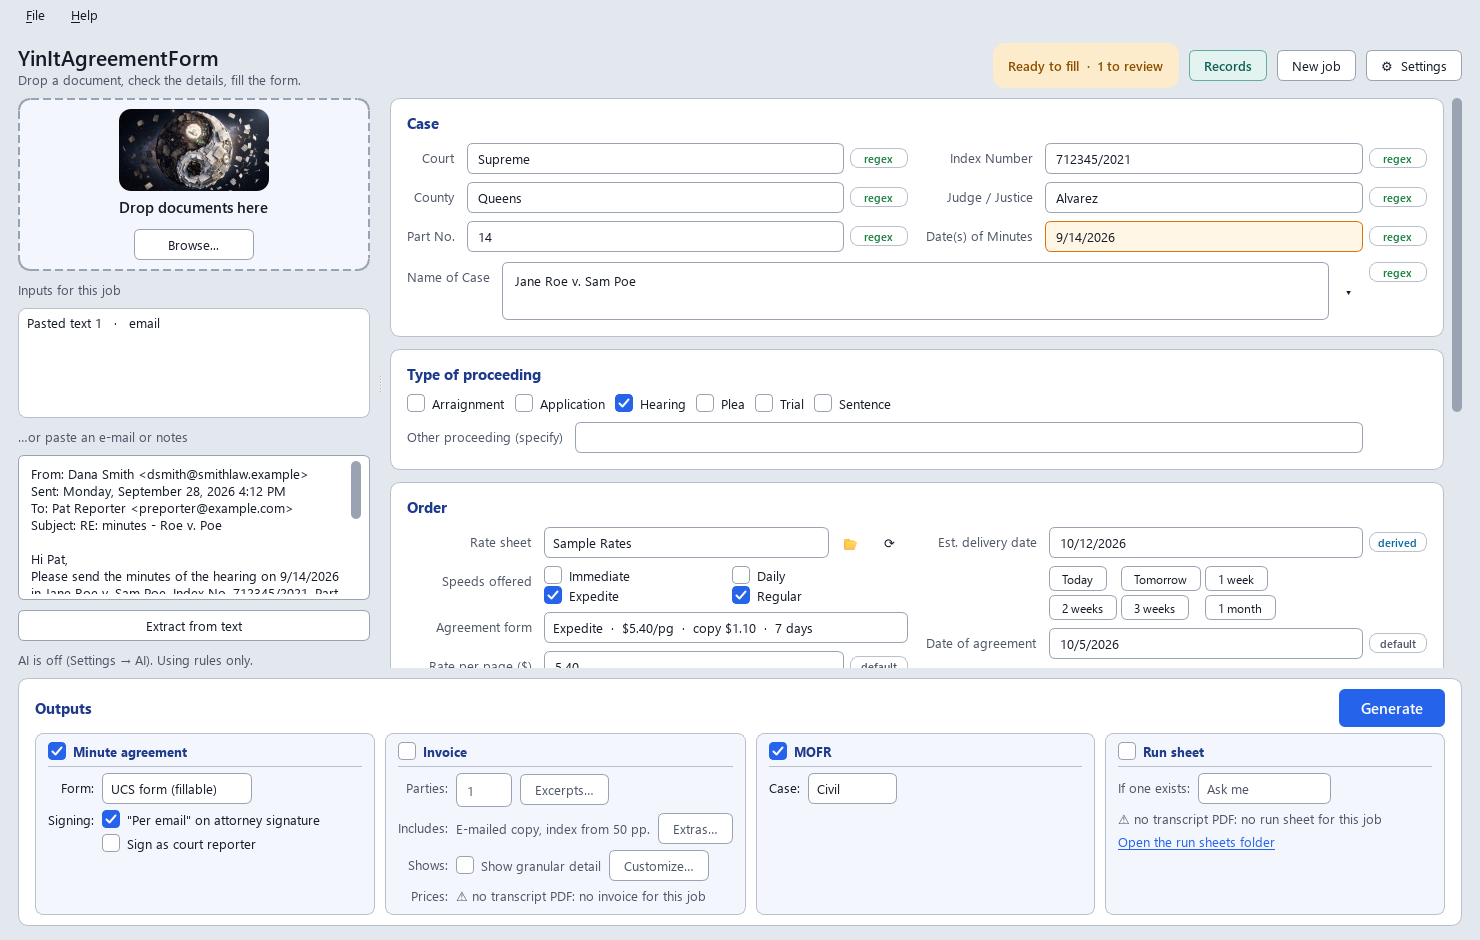
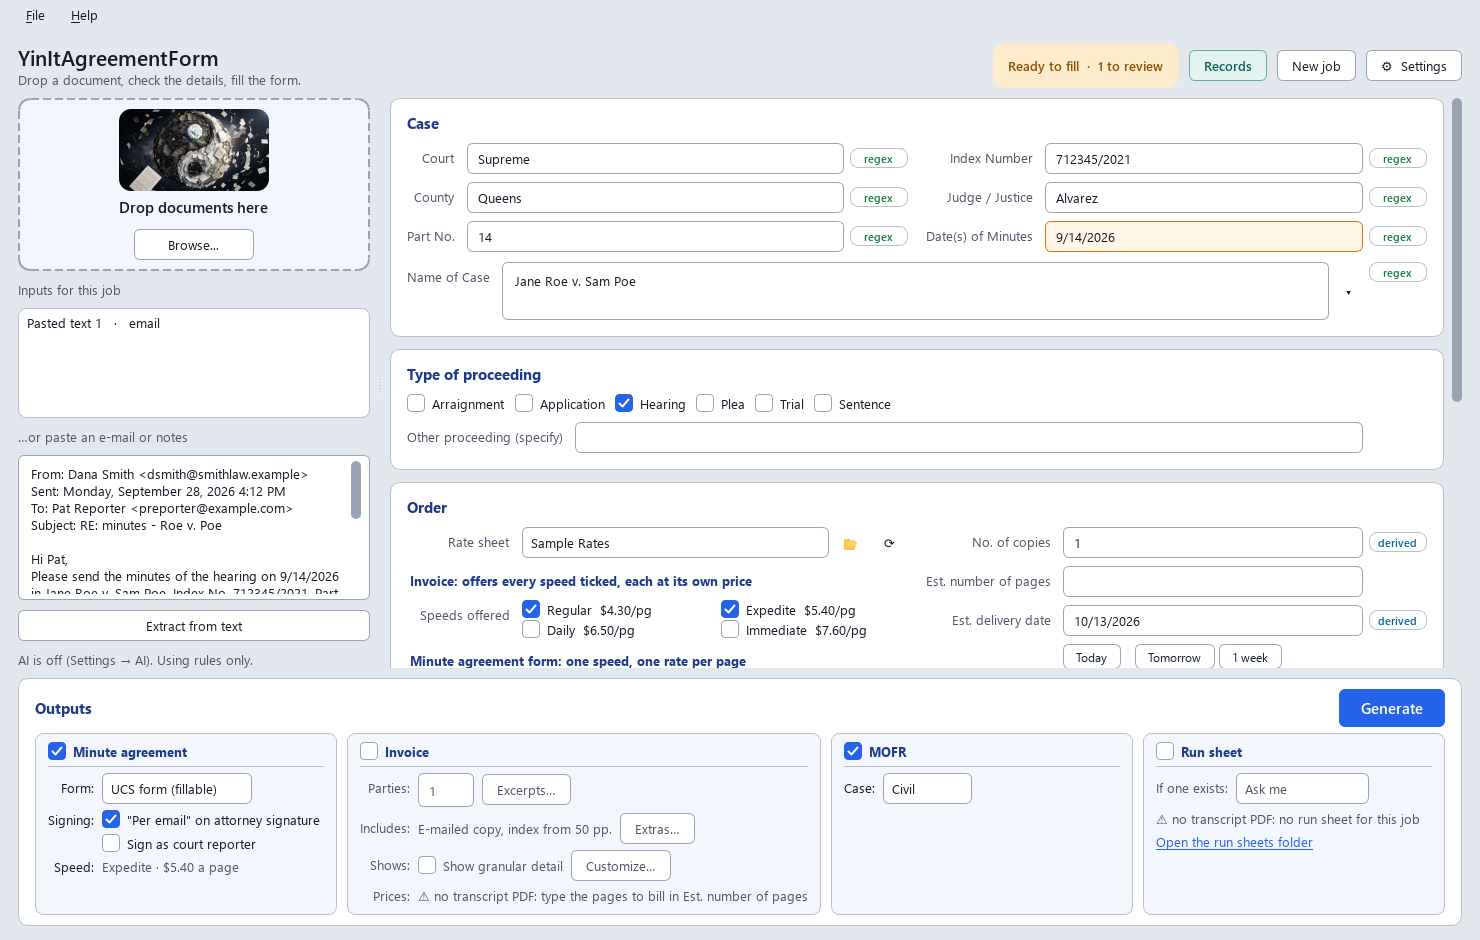
Website and README for 2.1.0: one row per firm, forms per trial, removable excerpts, many files in the preview
New pictures of the window (the Order card's two speed groups) and of the Excerpts table (dates,
weekdays, colours, the Remove buttons), made-up data only.

diff --git a/docs/index.html b/docs/index.html
@@ -64,7 +64,7 @@
 </header>
 
 <div class="wrap">
-  <img class="shot" src="app.png" alt="The app with a case filled in from a pasted e-mail: the case details, the speeds offered under Order, and the Outputs box">
+  <img class="shot" src="app.png" alt="The app with a case filled in from a pasted e-mail: the case details, the invoice's speeds and the minute agreement's one speed under Order, and the Outputs box">
 </div>
 
 <section>
@@ -80,7 +80,7 @@
     <ol class="steps">
       <li><b>Drop it in</b>A PDF (transcript, invoice), a photo, or paste the e-mail text or a screenshot with Ctrl+V.</li>
       <li><b>Check the details</b>Every field shows where it came from. Guesses are highlighted, and a list offers other candidates.</li>
-      <li><b>Tick who ordered, and the speeds</b>Tick the attorneys who ordered (No. of copies follows). Under Order, tick the speeds you offer, once: the invoice lists them all, each at its own price, and the agreement form names one speed at one rate, Expedited when you offer it. An e-mail asking for another speed? You're asked which. <b>Who pays what</b>, under the attorneys, shows each firm's invoice in short as you tick. Rates and the estimated delivery date follow your rate sheet.</li>
+      <li><b>Tick who ordered, and the speeds</b>Tick the firms who ordered: a firm is one row, naming all its attorneys on the title page, and gets one invoice and one agreement (No. of copies follows). Under Order, tick the speeds you offer, once: the invoice lists them all, each at its own price, and the agreement form names one speed at one rate, Expedited when you offer it, unless you pick another. An e-mail asking for another speed? It's pointed out, and Generate asks you which. <b>Who pays what</b>, under the attorneys, shows each firm's invoice in short as you tick. Rates and the estimated delivery date follow your rate sheet.</li>
       <li><b>Generate</b>Tick what to make in the Outputs box: minute agreement, invoice, MOFR, run sheet, each with its own options. You see every file, and the math, before anything is saved; then the PDFs are saved, one per attorney you tick, and the run sheet gets the day's takes. Ctrl+Enter does it from the keyboard.</li>
     </ol>
   </div>
@@ -90,7 +90,7 @@
   <div class="wrap two">
     <div>
       <h2>A hundred orders? Drop the whole folder.</h2>
-      <p>Batch mode reads any number of documents and sorts them into one job per case and date. A transcript and its invoice make one form, not two. Two days of the same case make two forms (or one, if you prefer), but each attorney gets <b>one invoice</b> for all the days they ordered. Tick the jobs you want and press <b>Generate all</b>: the preview shows every file and the math first, and nothing is saved until you say so. A ⚠ next to a job means something to check; hover over it to see what.</p>
+      <p>Batch mode reads any number of documents and sorts them into one job per case and date. A transcript and its invoice make one form, not two. Two days of the same case make two jobs, but <b>Generate all</b> gives each firm <b>one invoice</b> and one minute agreement for all the days it ordered, and the trial one MOFR (Settings &rarr; Options switches back to forms for each day). Tick the jobs you want and press <b>Generate all</b>: the preview shows every file and the math first, and nothing is saved until you say so. A ⚠ next to a job means something to check; hover over it to see what.</p>
     </div>
     <img class="shot" src="batch.png" alt="Batch mode: five jobs on the left, a trial day two reporters wrote, its speeds offered and page count, and the Outputs box with Run sheet ticked">
   </div>
@@ -121,9 +121,9 @@
   <div class="wrap two">
     <div>
       <h2>Excerpts: the whole case on one table</h2>
-      <p>One firm ordered the whole trial, another part of day 1, a third part of that and a stretch of day 2? <b>Excerpts…</b> (next to Parties) lists every day of the case on that invoice in one table. Each row is a run of pages, typed in the transcript's own page numbers (141-170), and the rows around it make room. Tick the firms that ordered each run. <b>Split run</b> cuts a run in two, and <b>Remove run</b> (or the Delete key) gives its pages back to the run above, so every page is still ordered once; <b>Remove this day's excerpts</b> and <b>Remove all excerpts</b> go back to whole days. As you type, it shows what each run costs each firm at every speed you offer (<b>Prices for:</b> hides a speed), what each group of firms ordering together pays, and each firm's invoice. Pages ordered together share the original and the index, and every firm pays for its own copy. A run nobody ticks is billed to nobody. The window stays open beside the app and follows what you change there. Sample shown uses made-up names.</p>
+      <p>One firm ordered the whole trial, another part of day 1, a third part of that and a stretch of day 2? <b>Excerpts…</b> (next to Parties) lists every day of the case on that invoice in one table. Each row is a run of pages, typed in the transcript's own page numbers (141-170), and the rows around it make room. Tick the firms that ordered each run. <b>Split run</b> cuts a run in two, and <b>Remove run</b> (or the Delete key, or a right-click) gives its pages to the run next to it; <b>Remove this day's excerpts</b> and <b>Remove all excerpts</b> go back to whole days. Each run shows its date and weekday, and each set of firms ordering together has its own colour. As you type, it shows what each run costs each firm at every speed you offer (<b>Prices for:</b> hides a speed), what each group of firms ordering together pays, and each firm's invoice. Pages ordered together share the original and the index, and every firm pays for its own copy. A run nobody ticks is billed to nobody. The window stays open beside the app and follows what you change there. Sample shown uses made-up names.</p>
     </div>
-    <img class="shot" src="excerpts.png" alt="The Excerpts table: two days of a case, a row per run of pages, a box per firm, and what each firm pays at Regular and Expedite">
+    <img class="shot" src="excerpts.png" alt="The Excerpts table: two days of a case with their dates and weekdays, a row per run of pages coloured by the firms ordering it, a box per firm, what each firm pays at Regular and Expedite, and the Remove buttons">
   </div>
 </section>
 
@@ -142,7 +142,7 @@
     <img class="shot" src="preview.png" alt="The preview: tabs coloured by kind of file (the math, two minute agreements, two invoices), the first agreement shown before it is saved, with Go back and Save">
     <div>
       <h2>See it before it's saved</h2>
-      <p>Click <b>Generate</b>, or <b>Generate all</b> for a whole batch, and the app first shows you each form and invoice as it will be saved, a tab for each file, the invoice with the number it will get. Each kind of file has its own tab colour, and the first tab, <b>The math</b>, shows how every amount is reached. <b>Side by side</b> shows every file at once; <b>Ctrl +</b> and <b>Ctrl &minus;</b> (or Ctrl and the mouse wheel) zoom. <b>Save</b> saves them. <b>Go back</b> saves nothing and takes no invoice number, so you can fix a field and try again. The run sheet, a spreadsheet, is saved with the rest but not shown. Rather skip it? <b>Don't show previews anymore</b> turns it off, and Settings turns it back on. Once the files are saved, <b>Print…</b> sends them to your printer. Sample shown uses made-up names.</p>
+      <p>Click <b>Generate</b>, or <b>Generate all</b> for a whole batch, and the app first shows you each form and invoice as it will be saved, a tab for each file, the invoice with the number it will get. Each kind of file has its own tab colour, and the first tab, <b>The math</b>, shows how every amount is reached. <b>Side by side</b> shows every file at once; <b>Ctrl +</b> and <b>Ctrl &minus;</b> (or Ctrl and the mouse wheel) zoom. Many files? Arrows at the end of the tabs, a <b>Files ▾</b> menu and <b>Ctrl+Tab</b> take you to any of them. <b>Save</b> saves them. <b>Go back</b> saves nothing and takes no invoice number, so you can fix a field and try again. The run sheet, a spreadsheet, is saved with the rest but not shown. Rather skip it? <b>Don't show previews anymore</b> turns it off, and Settings turns it back on. Once the files are saved, <b>Print…</b> sends them to your printer. Sample shown uses made-up names.</p>
     </div>
   </div>
 </section>

diff --git a/README.md b/README.md
@@ -17,7 +17,7 @@ Drop in a transcript, invoice, or photo of a court document, or paste an e-mail.
 - **Your signature.** Choose a photo or scan of your signature once (Settings → My info) and it is placed on the court reporter line of every form. The paper background is removed, so the form's line shows through.
 - **Fewer keystrokes.** Default rate sheet and number of copies are set once in Settings → Defaults, and *No. of copies* follows the parties you tick (a number you type still wins). Buttons under the estimated delivery date fill in today, tomorrow, 1–3 weeks or 1 month from today.
 - **Rate sheets and speeds, chosen once.** Pick your price list (private, city, …) from a dropdown. The Order card has two parts, so it is clear what is whose: under **Invoice**, tick the speeds the invoice offers, each shown with its price (*Regular  $4.30/pg*); under **Minute agreement form**, the one speed and one rate per page the form names: **Expedited when you offer it**, otherwise the slowest you offer (*Settings → Invoice → Agreement form speed* changes the rule; the *Speed* dropdown changes it for one job, and ↺ goes back to the rule). A speed an e-mail mentions is never applied by itself: when an e-mail asks for another speed ("please send a daily copy"), the Order card asks you to choose, and so does *Generate*. The rate, delivery checkbox and estimated delivery date follow the speed.
-- **One form per attorney.** Tick several attorneys to get a separate PDF for each, each with **the pages that attorney ordered**, whoever wrote them: firm A ordering a 150-page day and firm B an 80-page excerpt of it get agreements for 150 and 80 pages. For a trial of several days, *Generate all* makes **one agreement per attorney for the whole trial** (only the days it ordered, and all the pages it ordered on them) and **one MOFR** for all the days.
+- **One form per attorney.** Tick several attorneys to get a separate PDF for each, each with **the pages that attorney ordered**, whoever wrote them: firm A ordering a 150-page day and firm B an 80-page excerpt of it get agreements for 150 and 80 pages. A firm is one row and gets one agreement; a firm ticked that ordered none of the day's pages (no run under Excerpts…) gets none. For a trial of several days, *Generate all* makes **one agreement per attorney for the whole trial** (only the days it ordered, and all the pages it ordered on them) and **one MOFR** for all the days.
 - **Batches.** Drop many documents, or a whole folder, at once. Documents about the same case and date are combined, so each order gets one form.
 - **Choose what to make:** the **Outputs** box at the bottom of the window has a column for each of *Minute agreement*, *Invoice*, *MOFR* and *Run sheet*. Tick the ones to make; each column holds that output's own options (the form and "per email" for the agreement, the parties, Excerpts… and Extras… for the invoice, and so on). Your choices are remembered, except *Show granular detail*, which is set for each job. *Run sheet* ticks itself when two or more reporters wrote a case's transcripts, and unticks when one did; click it to decide yourself.
 - **Fix it afterwards.** The PDFs stay fillable: every value the app typed in, invoice amounts included, is a field you can still change in a PDF viewer, and a blank one can be typed into. When it's final, use **File → Lock finished PDFs (no more changes)…** to save a locked copy (it works in any PDF viewer), or tick *Flatten the PDF* in Settings → Options to lock every PDF as it is made.
@@ -68,7 +68,7 @@ The first time the app starts it asks for your name, address, rate sheet and whe
 An invoice can be made when one of the job's inputs is a **transcript PDF**: its pages are billed (you can change the number in *Est. number of pages*). Without one, type the pages to bill in *Est. number of pages*: a caption or title page and the number typed are enough (the run sheet still needs a transcript). The word index printed after a transcript (Min-U-Script) is not counted. Several transcripts in one job, such as the days of a trial, are added up. With a transcript PDF, *Est. number of pages* is always counted from it (badge **PDF**), never taken from a number in an e-mail: every page of the transcripts, whoever wrote them. Each attorney's minute agreement shows the pages that attorney ordered (the whole day, or its runs under *Excerpts…*), the MOFR the pages anyone ordered; on a transcript of several reporters your invoice bills only your own pages of them (the *Billed* line says "Your pages: 28 of 77"). Only a number you type yourself (badge **you**) replaces the count: your invoice then bills that number (*Billed: the Pages field*), and it is the day's pages on every agreement (an excerpt counts its pages of it). Picking the number already shown from the ▾ list changes nothing either. Without a transcript, the pages you type are the day's pages in the same way; a number read from a document is shown on the forms as it is, and not billed. A title that runs over two pages ("Title continues on next page") is read to its end, so the attorneys listed on the second page are found too. One invoice is made for each ticked attorney who ordered pages, numbered 2026-0001, 2026-0002, … (the format is in Settings → Invoice). The speeds the invoice offers are those ticked under Order, *Speeds offered* (tick one to bill that speed alone; with none ticked, the agreement form's speed is billed). The *Invoice* panel of the Outputs box shows the prices before you generate. There you change the number of ordering parties, open *Excerpts…* (who ordered which pages), and choose *Show granular detail* for this job (it starts unticked for every new job). These buttons change this job's invoice only (your defaults for every invoice are in Settings → Invoice):
 - **Extras…**: the e-mailed copy for each party (some attorneys skip it to save money), and the index: automatic, always (for a short transcript too) or never.
 - **Customize…**: what granular detail shows: the page count, the pages of each day, the price per page, the charges in each amount and the split between the parties.
-- **Excerpts…** (next to *Parties*): who ordered which pages, as **one table for every day of the case** on that invoice. One firm ordered the whole trial, another part of day 1, a third part of that and a stretch of day 2: each row is a run of pages of a day, typed in the transcript's own printed page numbers (*141-170*; by place in the day when they aren't known), and the rows around a run you type make room for it. Each firm has a box: tick the firms that ordered the run. By default every ticked firm ordered every page. **Split run** cuts the run chosen in two. **Remove run** (or the Delete key, or right-click) removes an excerpt: its pages go to the run above it (the run below, for a day's first run), and runs left side by side with the same firms become one again, so every page is still ordered by someone, once. **Remove this day's excerpts** goes back to one run for that day, every firm ordering all of it, and **Remove all excerpts** does that for every day. For each run the table shows the pages billed and what each firm that ordered it pays at every speed offered (*Prices for:* hides a speed); under it, what each group of firms ordering together pays and each firm's invoice, as you type. Pages ordered together share the original and the index; each firm pays its own copy. A run nobody ticks is billed to nobody. *Show each run's place in the day* adds "1–20 of 85" beside the printed numbers. The window stays open beside the main window and follows what you change there (an attorney ticked, a speed, Extras…). A job that puts several days on one form is ordered whole. When the day's page count changes so that the rows no longer end on its last page, or an attorney named in them is unticked, the rows are kept but the *Prices* line says *Excerpts… needs checking*, and no invoice is made for that day (*Generate* asks; *Generate all* says so before it starts, see *A day not decided yet*) until you fix them. Renaming an attorney in the Attorneys table renames them in the runs too. A day split this way ignores the *Parties* number.
+- **Excerpts…** (next to *Parties*): who ordered which pages, as **one table for every day of the case** on that invoice. One firm ordered the whole trial, another part of day 1, a third part of that and a stretch of day 2: each row is a run of pages of a day, typed in the transcript's own printed page numbers (*141-170*; by place in the day when they aren't known), and the rows around a run you type make room for it. Each firm has a box: tick the firms that ordered the run. By default every ticked firm ordered every page. **Split run** cuts the run chosen in two. **Remove run** (or the Delete key, or right-click) removes an excerpt: its pages go to the run above it (the run below, for a day's first run), or below it when the run above is ordered by nobody, and runs left side by side with the same firms become one again, so every page is still in one run. **Remove this day's excerpts** goes back to one run for that day, every firm ordering all of it, and **Remove all excerpts** does that for every day. For each run the table shows the pages billed and what each firm that ordered it pays at every speed offered (*Prices for:* hides a speed); under it, what each group of firms ordering together pays and each firm's invoice, as you type. Pages ordered together share the original and the index; each firm pays its own copy. A run nobody ticks is billed to nobody. *Show each run's place in the day* adds "1–20 of 85" beside the printed numbers. The window stays open beside the main window and follows what you change there (an attorney ticked, a speed, Extras…). A job that puts several days on one form is ordered whole. When the day's page count changes so that the rows no longer end on its last page, or an attorney named in them is unticked, the rows are kept but the *Prices* line says *Excerpts… needs checking*, and no invoice is made for that day (*Generate* asks; *Generate all* says so before it starts, see *A day not decided yet*) until you fix them. Renaming an attorney in the Attorneys table renames them in the runs too. A day split this way ignores the *Parties* number.
 
 **Who ordered what.** Whenever an invoice is to be made, the form shows a **Who ordered what** card under the attorneys. Nothing about who pays for what is left implicit: for every day the invoice covers (all the days *Generate all* bills together), there is a row for each attorney with the pages it ordered (*every page, 1–60*, or *excerpt: 20–40 of 60*), the page numbers printed on them, who else ordered the same pages (*Also ordered*), and how many of your pages that bills. An attorney ticked on another day of the case says *not ticked on this day: orders nothing*, and a day still waiting for a choice (Excerpts… to check, or whose pages to bill) says so. A day of the case with nobody ticked says in amber that no invoice is made for the case until you tick who ordered it. A row whose pages include none of yours says *0 (no invoice: none of these pages are yours)*. When you typed the Pages field, the row says that number is what's billed (*every page (Pages field typed: 40 billed)*). With nothing to bill (the Pages field says 0, say) the card says why instead of showing an empty table. **Edit excerpts…**, or a double-click on a row, opens the Excerpts window for that day; when the day waits for whose pages to bill, the button is **Whose pages…** and opens that instead.
 
@@ -124,7 +124,7 @@ Prefer a spreadsheet? **File → Save the invoice spreadsheet template…** give
 
 The Minute Order Form/Receipt gets the reporter's parts only: county, Civil/Criminal (*Case* in the MOFR column of the Outputs box), title, your name and location, index number, part, judge, dates, total copies, the type of order and the page count (the pages anyone ordered, whoever wrote them; the *Est. number of pages* field when you typed it, or without a transcript). The judge's, counsel's, clerk's and auditor's sections are left blank. On a civil form the printed "PEOPLE V" is covered, so the full caption fits. The days of a trial made together with *Generate all* (on one invoice) get one MOFR listing all of them, with their pages ordered added up (see *Several days of one case*).
 
-The yin-yang in the drop zone shows what's happening: it swirls while documents are read, settles when the form is ready, and cracks when something required is missing. If you'd rather not see it, turn it off in Settings → Options.
+The yin-yang in the drop zone shows what's happening: it swirls while it waits and while documents are read (for at least one turn), settles when the form is ready (click it to see it swirl again), and cracks when something required is missing. If you'd rather not see it, turn it off in Settings → Options.
 
 ## Run sheets
 
@@ -152,9 +152,9 @@ Drop any number of documents at once, or a folder (**File → Open a folder of d
 - A document that names no date joins its case if there is only one job for it.
 - A document that names no case gets a job of its own, left unticked.
 
-The jobs appear in a list on the left. Click one to check or correct it in the usual editor; right-click a document to move it to a job of its own. ✓ marks the jobs already saved, ⚠ the ones that failed or need a look: something required is missing, attorneys were found but none is ticked (a transcript lists everyone who appeared, not who ordered), the invoice waits for a choice (Whose pages… or Excerpts…), or there is no transcript for an invoice. Hover over a job to see what to check; the *Jobs* heading's tooltip explains the marks. **New job** is greyed out while there is nothing to clear.
+The jobs appear in a list on the left. Click one to check or correct it in the usual editor; right-click a document to move it to a job of its own. ✓ marks the jobs already saved, ⚠ the ones that failed or need a look: something required is missing, attorneys were found but none is ticked (a transcript lists everyone who appeared, not who ordered), the invoice waits for a choice (Whose pages… or Excerpts…), or there are no pages to bill for an invoice (no transcript, and no pages typed in *Est. number of pages*). Hover over a job to see what to check; the *Jobs* heading's tooltip explains the marks. **New job** is greyed out while there is nothing to clear.
 
-**Generate all** (Ctrl+Shift+Enter) makes the ticked outputs for every ticked job. Like Generate, it first shows a preview of every file, with the math of every invoice on the first tab (the run sheets are not shown); nothing is saved until you click Save. A job without a transcript gets its forms but no invoice or run sheet, and the summary says which. The days of one trial in a batch go on one run sheet, and you're asked about it once. Documents dropped later are added to the job they belong to, and files that are already loaded are skipped.
+**Generate all** (Ctrl+Shift+Enter) makes the ticked outputs for every ticked job. Like Generate, it first shows a preview of every file, with the math of every invoice on the first tab (the run sheets are not shown); nothing is saved until you click Save. A job without a transcript gets its forms but no run sheet, and no invoice unless you typed its pages in *Est. number of pages*; the summary says which. The days of one trial in a batch go on one run sheet, and you're asked about it once. Documents dropped later are added to the job they belong to, and files that are already loaded are skipped.
 
 Batches are read with the built-in rules and Windows' text recognition only; the AI helper is not used, as it would take most of a minute per document.
 
